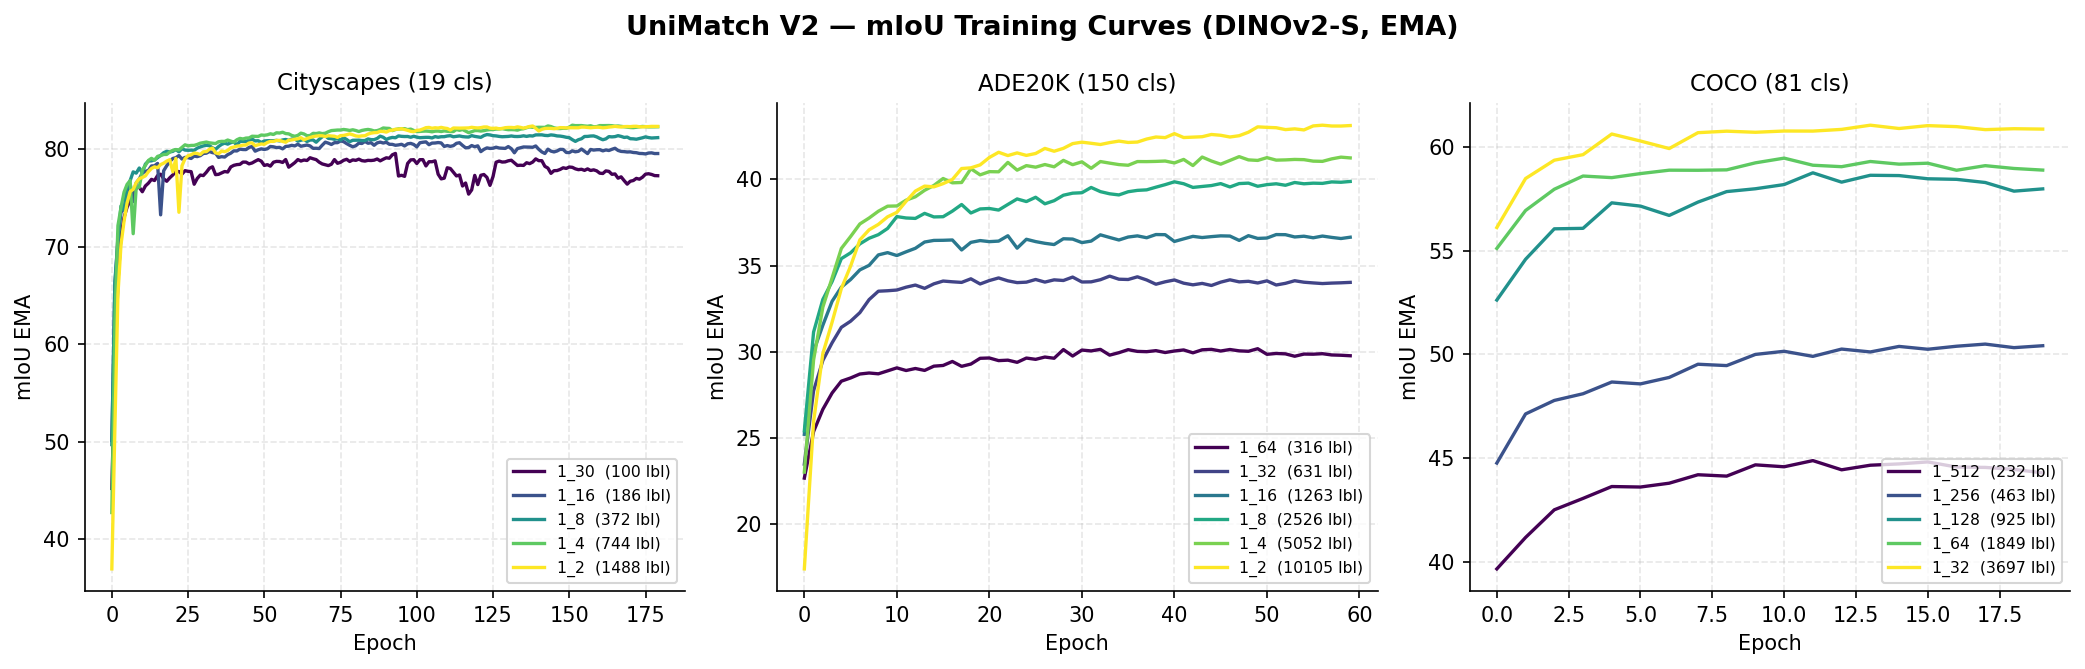
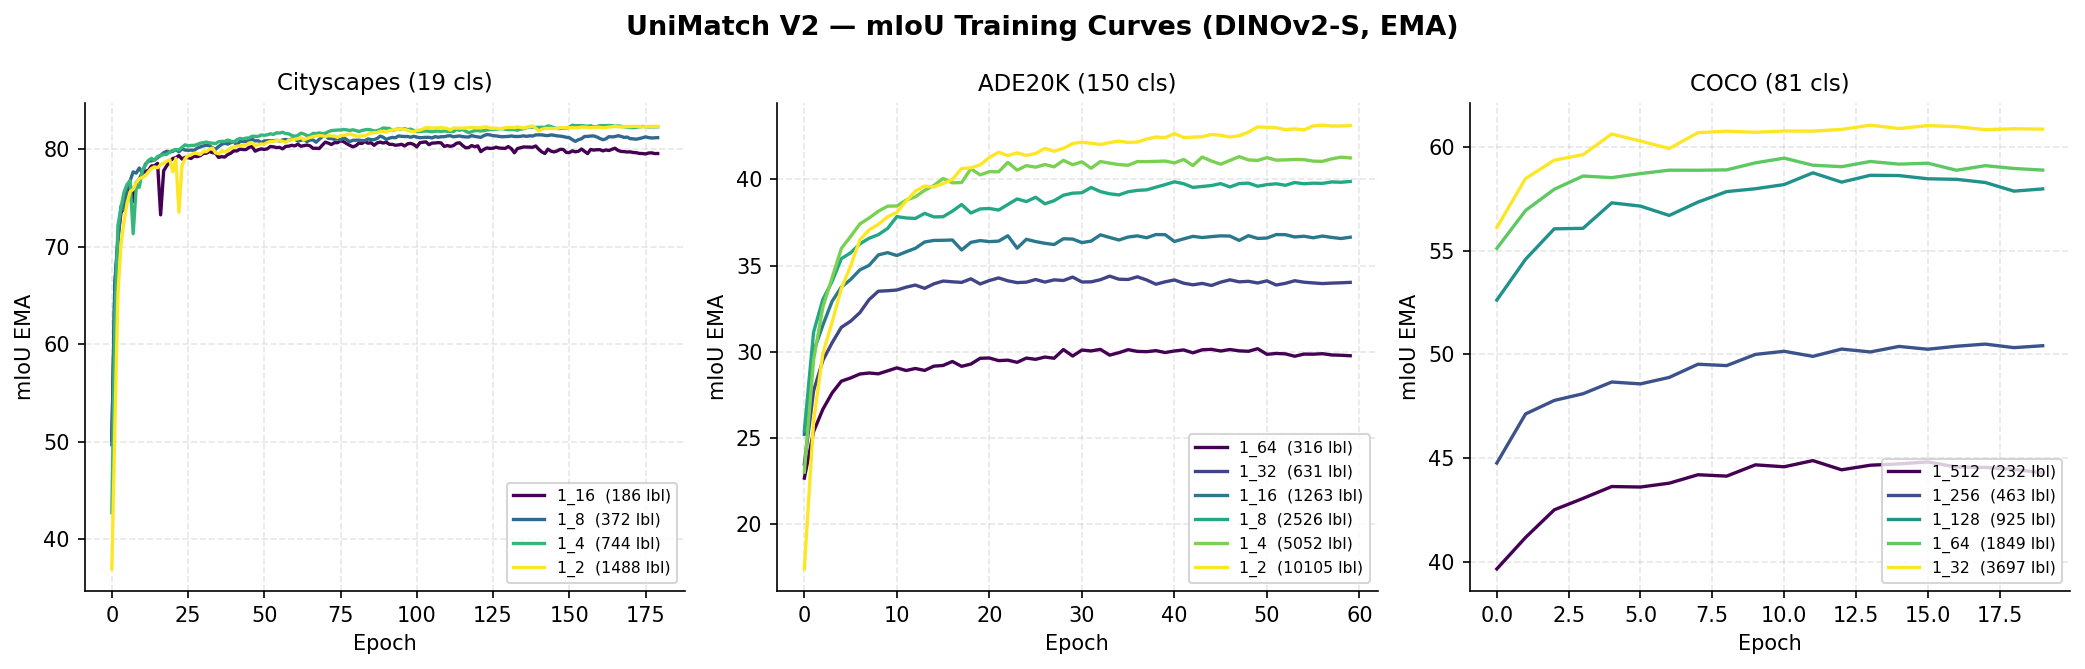
Implement code changes to enhance functionality and improve performance

Changed region(s): [[0.0624, 0.1794, 0.3118, 0.3288], [0.2494, 0.6876, 0.3429, 0.7474]]

diff --git a/visualize_results.py b/visualize_results.py
@@ -34,6 +34,12 @@ METHOD     = 'unimatch_v2'
 
 DATASETS = ['cityscapes', 'ade20k', 'coco']
 
+# Splits to exclude per dataset -- e.g. extra runs done for exploration that
+# don't have a matching regime in the paper's reported results.
+EXCLUDE_SPLITS = {
+    'cityscapes': {'1_30'},
+}
+
 DATASET_LABEL = {
     'cityscapes': 'Cityscapes (19 cls)',
     'ade20k':     'ADE20K (150 cls)',
@@ -124,6 +130,8 @@ def discover_experiments():
         dataset, backbone, split = parts[-4], parts[-2], parts[-1]
         if dataset not in DATASETS:
             continue
+        if split in EXCLUDE_SPLITS.get(dataset, set()):
+            continue
         if not glob.glob(os.path.join(run_dir, '*.tfevents*')):
             continue
         frac_num, frac_den, frac_val = parse_fraction(split)
@@ -161,9 +169,22 @@ def per_class_ious_at_best(scalars):
 
 
 def smooth(values, window_frac=0.02):
-    w = max(1, int(len(values) * window_frac))
-    kernel = np.ones(w) / w
-    return np.convolve(values, kernel, mode='same')
+    values = np.asarray(values, dtype=float)
+    nan_mask = np.isnan(values)
+    if nan_mask.any():
+        # linearly interpolate isolated bad points (e.g. 0/0 in loss_u when a
+        # batch's crop is entirely ignore-region) so one NaN doesn't blank out
+        # a whole smoothing window
+        idx = np.arange(len(values))
+        values = values.copy()
+        values[nan_mask] = np.interp(idx[nan_mask], idx[~nan_mask], values[~nan_mask])
+
+    n = len(values)
+    w = max(1, int(n * window_frac))
+    kernel = np.ones(w)
+    num = np.convolve(values, kernel, mode='same')
+    den = np.convolve(np.ones(n), kernel, mode='same')
+    return num / den
 
 
 # ── figure 1: mIoU vs. labeled samples ───────────────────────────────────────
@@ -182,7 +203,8 @@ def fig_miou_vs_labeled(exps, paper_results):
         ax.set_xscale('log')
         ax.grid(True, alpha=0.3, linestyle='--')
 
-        all_fracs = {}  # frac_val -> label string for tick labeling
+        all_fracs = {}     # frac_val -> label string for tick labeling
+        all_frac_dims = {}  # frac_val -> (num, den) for split-size lookup
         plotted_any = False
 
         # ── our runs ──────────────────────────────────────────────────────────
@@ -198,6 +220,7 @@ def fig_miou_vs_labeled(exps, paper_results):
                 if miou is not None:
                     pts.append((e['frac_val'], miou))
                     all_fracs[e['frac_val']] = fraction_label(e['frac_num'], e['frac_den'])
+                    all_frac_dims[e['frac_val']] = (e['frac_num'], e['frac_den'])
             if not pts:
                 continue
             pts.sort()
@@ -219,6 +242,7 @@ def fig_miou_vs_labeled(exps, paper_results):
             for fv in xs:
                 num_s, den_s = 1, round(1 / fv)
                 all_fracs[fv] = fraction_label(num_s, den_s)
+                all_frac_dims.setdefault(fv, (num_s, den_s))
             internal_bb = paper_to_internal[paper_bb]
             base_style = BACKBONE_STYLE[internal_bb]
             ax.plot(xs, ys, marker=pstyle['marker'], linestyle=pstyle['linestyle'],
@@ -234,7 +258,26 @@ def fig_miou_vs_labeled(exps, paper_results):
             ax.xaxis.set_minor_locator(mticker.NullLocator())
             ax.tick_params(axis='x', which='major', labelsize=8)
         if plotted_any:
-            ax.legend(fontsize=8)
+            main_legend = ax.legend(fontsize=8, loc='upper left')
+            ax.add_artist(main_legend)
+
+        # ── sub-legend: labeled-sample count for each split ────────────────────
+        size_rows = []
+        for fv in sorted(all_frac_dims):
+            num, den = all_frac_dims[fv]
+            n = count_labeled(dataset, f'{num}_{den}')
+            n_str = f'{n}' if n is not None else '?'
+            size_rows.append((fraction_label(num, den), n_str))
+        sizes_lines = []
+        if size_rows:
+            label_w = max(len(lbl) for lbl, _ in size_rows)
+            n_w = max(len(n) for _, n in size_rows)
+            sizes_lines = [f'{lbl:<{label_w}}: {n:>{n_w}} imgs' for lbl, n in size_rows]
+        if sizes_lines:
+            ax.text(0.98, 0.02, '\n'.join(sizes_lines),
+                    transform=ax.transAxes, ha='right', va='bottom', fontsize=7,
+                    family='monospace',
+                    bbox=dict(boxstyle='round', facecolor='white', edgecolor='gray', alpha=0.85))
 
     fig.tight_layout()
     return fig